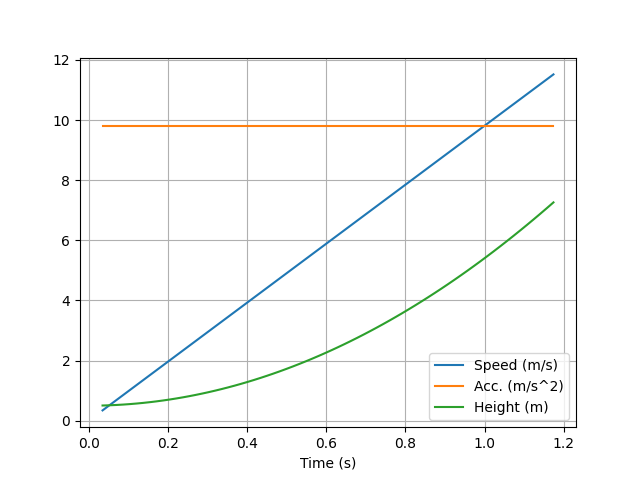
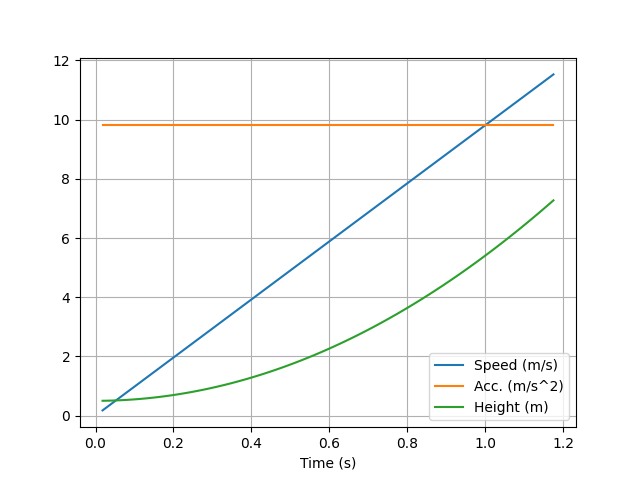
add bird+pause mode!

diff --git a/fluffyBird/background.py b/fluffyBird/background.py
@@ -1,12 +1,13 @@
 import pygame
 import config
+from state import State
 from dataclasses import dataclass
 
 
 @dataclass
 class Background:
 
-    def init(self):
+    def __init__(self):
         self.clouds = pygame.image.load(
             "fluffyBird/assets/images/Clouds.png"
         ).convert_alpha()
@@ -41,25 +42,28 @@ class Background:
     def _drawSprites(
         self,
         screen: pygame.Surface,
+        state: State,
         image: pygame.Surface,
         images_arr: list[pygame.Rect],
     ):
-        if images_arr[0].right <= 0:
-            first_rect = images_arr.pop(0)
+        if not state.pause:
+            if images_arr[0].right <= 0:
+                first_rect = images_arr.pop(0)
 
-            new_rect = image.get_rect()
-            new_rect.topleft = (config.SCREEN_WIDTH, first_rect.y)
+                new_rect = image.get_rect()
+                new_rect.topleft = (config.SCREEN_WIDTH, first_rect.y)
 
-            images_arr.append(new_rect)
+                images_arr.append(new_rect)
 
         for rect in images_arr:
-            rect.x -= config.BG_SPEED
+            if not state.pause:
+                rect.x -= config.BG_SPEED
             screen.blit(image, rect)
 
-    def draw(self, screen: pygame.Surface):
+    def draw(self, screen: pygame.Surface, state: State):
 
         pygame.draw.rect(screen, (30, 140, 184), self.sky_rect)
         pygame.draw.rect(screen, (4, 112, 236), self.sea_rect)
 
-        self._drawSprites(screen, self.clouds, self.clouds_arr)
-        self._drawSprites(screen, self.grass, self.grass_arr)
+        self._drawSprites(screen, state, self.clouds, self.clouds_arr)
+        self._drawSprites(screen, state, self.grass, self.grass_arr)

diff --git a/fluffyBird/bird.py b/fluffyBird/bird.py
@@ -1,0 +1,47 @@
+import pygame
+import config
+from state import State
+from dataclasses import dataclass
+
+
+@dataclass
+class Bird:
+
+    def __init__(self):
+        image = pygame.image.load("fluffyBird/assets/images/Bird.png").convert_alpha()
+
+        self.frame_width = image.get_width() // 2
+        self.frame_height = image.get_height() // 2
+
+        self.min_height = -self.frame_height // 1.5
+
+        self.image = image.subsurface((0, 0, self.frame_width, self.frame_height))
+
+        self.rect = self.image.get_rect()
+        self.rect.center = (100, 100)
+
+        self.velocity_y = 0
+
+    def update(self, state: State):
+        if state.pause:
+            return
+
+        self.velocity_y += config.GRAVITY
+
+        self.rect.y += self.velocity_y
+        if self.rect.y <= self.min_height:
+            self.rect.y = self.min_height
+
+    def jump(self, state: State):
+        if state.pause:
+            return
+
+        self.velocity_y += config.JUMP_STRENGHT
+
+        if self.velocity_y < config.MIN_VELOCITY:
+            self.velocity_y = config.MIN_VELOCITY
+        elif self.velocity_y > config.MAX_VELOCITY:
+            self.velocity_y = config.MAX_VELOCITY
+
+    def draw(self, screen: pygame.Surface):
+        screen.blit(self.image, self.rect)

diff --git a/fluffyBird/main.py b/fluffyBird/main.py
@@ -1,6 +1,8 @@
 import pygame
 import config
-import background
+from background import Background
+from bird import Bird
+from state import State
 
 pygame.init()
 
@@ -9,8 +11,14 @@ pygame.display.set_caption("Fluffy Bird")
 
 clock = pygame.time.Clock()
 
-bg = background.Background()
-bg.init()
+bg = Background()
+bird = Bird()
+state = State()
+
+pause_overlay = pygame.Surface(
+    (config.SCREEN_WIDTH, config.SCREEN_HEIGHT), pygame.SRCALPHA
+)
+pause_overlay.fill((0, 0, 0, 125))
 
 running = True
 while running:
@@ -19,10 +27,21 @@ while running:
     for event in pygame.event.get():
         if event.type == pygame.QUIT:
             running = False
+        elif event.type == pygame.KEYDOWN:
+            if event.key == pygame.K_p:
+                state.pause = not state.pause
+            elif event.key == pygame.K_SPACE:
+                bird.jump(state)
+
+    bird.update(state)
 
     screen.fill((0, 0, 0))
 
-    bg.draw(screen)
+    bg.draw(screen, state)
+    bird.draw(screen)
+
+    if state.pause:
+        screen.blit(pause_overlay, (0, 0))
 
     pygame.display.flip()
 

diff --git a/fluffyBird/config.py b/fluffyBird/config.py
@@ -5,3 +5,10 @@ BG_SPEED = 0.7
 
 SCREEN_WIDTH = BG_IMAGE_WIDTH * (BG_REPEAT - 1)
 SCREEN_HEIGHT = 800
+
+GRAVITY = 0.2
+
+JUMP_STRENGHT = -10
+
+MIN_VELOCITY = -6
+MAX_VELOCITY = 7

diff --git a/fluffyBird/state.py b/fluffyBird/state.py
@@ -1,0 +1,6 @@
+from dataclasses import dataclass
+
+
+@dataclass
+class State:
+    pause: bool = False
